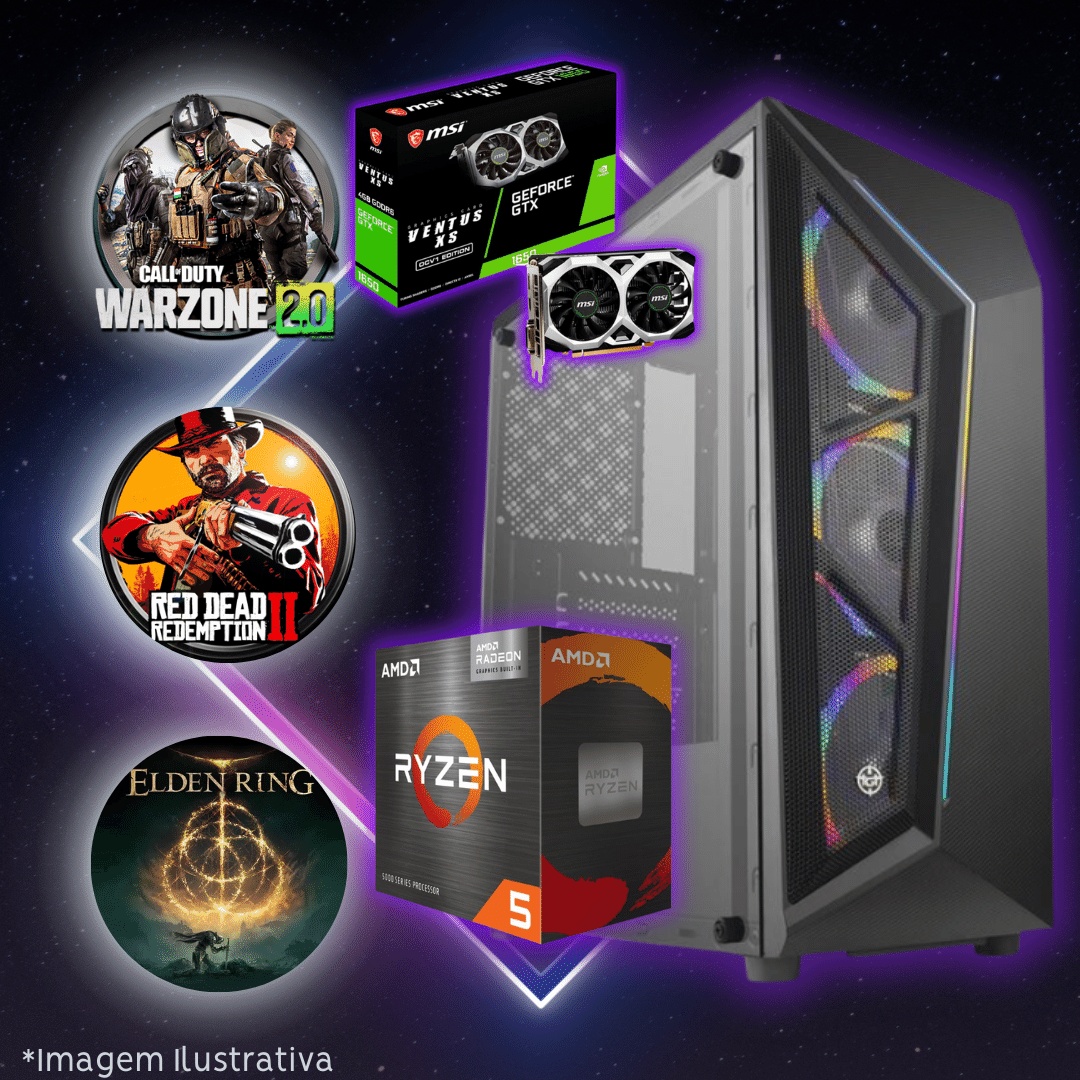
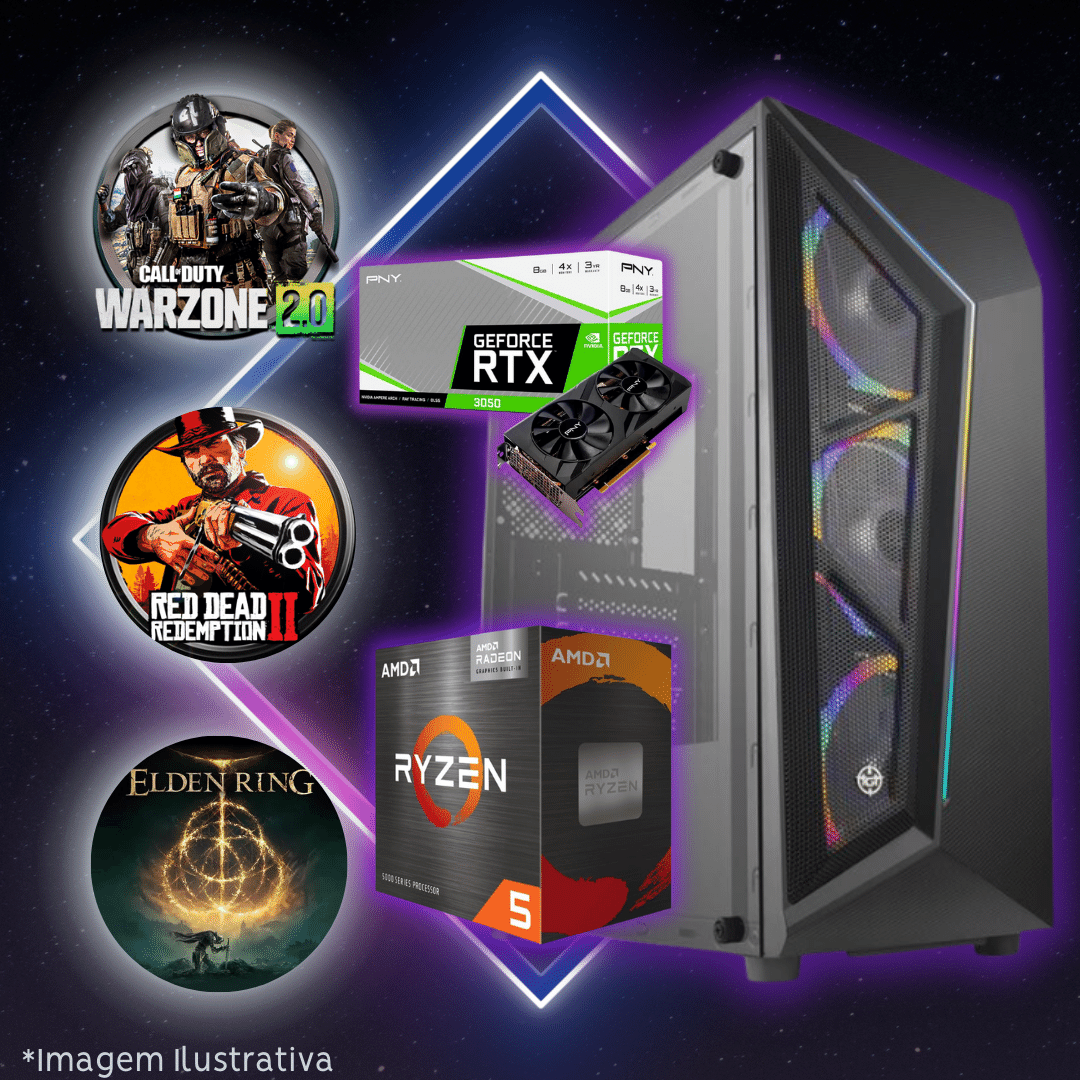
Update pic and price Setup Nº9

diff --git a/src/routes/setup/+page.svelte b/src/routes/setup/+page.svelte
@@ -58,11 +58,11 @@
       text: "💥 LEAGUE OF LEGENDS\n🌎 MINECRAFT\n🟥 ROBLOX\n🔫 VALORANT\n🔫 CSGO 2\n🔫 WARZONE\n🦙 FORTNITE\n\n*Placa Mãe:* A520\n*Processador:* RYZEN 5 4500\n*Memória RAM:* 2x8GB(16GB) DDR4\n*Placa de Vídeo:* GTX 1650 4GB\n*Armazenamento:* SSD 480GB\n*Gabinete:* GAMER C/ 3 FANS RGB RGB FRONTAIS\n*Fonte:* 500W\n+ Monitor de 17' POL. *NOVO*\n+ Kit Gamer(Teclado, Mouse, Mousepad e Headset)\n\nPOR APENAS *R$ 4.260,00* em até 10x sem juros!"
     },
 
-    // R$7.390,00
+    // R$7.990,00
     {
       title: "Nº9 - 🖱SETUP GAMER RYZEN 5 5600",
       image: "N9-SETUP.png",
-      text: "💥 LEAGUE OF LEGENDS\n🌎 MINECRAFT\n🟥 ROBLOX\n🔫 VALORANT\n🔫 WARZONE\n🔫 CSGO 2\n🦙 FORTNITE\n\n*Processador:* RYZEN 5 5600\n*Placa Mãe:* B450MX\n*Memória RAM:* 1x16GB DDR4 Fury Beast RGB\n*Placa de Vídeo:* RTX 3060 12GB\n*Armazenamento:* SSD 480GB\n*Gabinete:* GAMER C/ 3 FANS RGB FRONTAIS\n*Fonte:* 550W 80PLUS\n+ Monitor de 19' Pol. 75Htz\n+ + Kit Gamer(Teclado, Mouse, Mousepad e Headset)\n\nPOR APENAS *R$ 7.390,00* em até 10x sem juros!",
+      text: "💥 LEAGUE OF LEGENDS\n🌎 MINECRAFT\n🟥 ROBLOX\n🔫 VALORANT\n🔫 WARZONE\n🔫 CSGO 2\n🦙 FORTNITE\n\n*Processador:* RYZEN 5 5600\n*Placa Mãe:* B450MX\n*Memória RAM:* 1x16GB DDR4 Fury Beast RGB\n*Placa de Vídeo:* RTX 3060 12GB\n*Armazenamento:* SSD 480GB\n*Gabinete:* GAMER C/ 3 FANS RGB FRONTAIS\n*Fonte:* 550W 80PLUS\n+ Monitor de 19' Pol. 75Htz\n+ + Kit Gamer(Teclado, Mouse, Mousepad e Headset)\n\nPOR APENAS *R$ 7.990,00* em até 10x sem juros!",
     },
 
     // R$8.190,00
